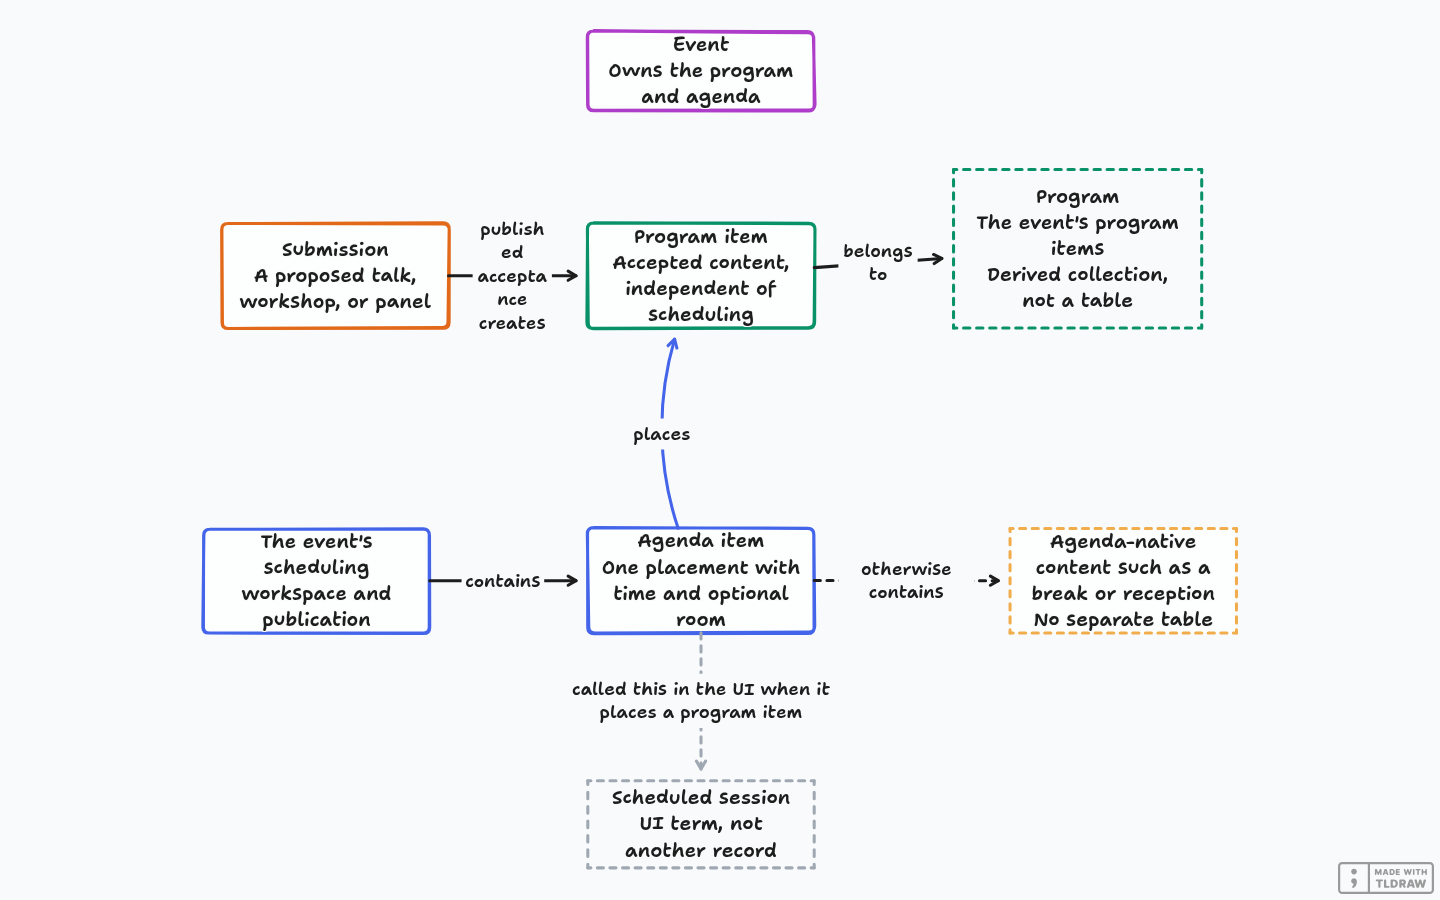
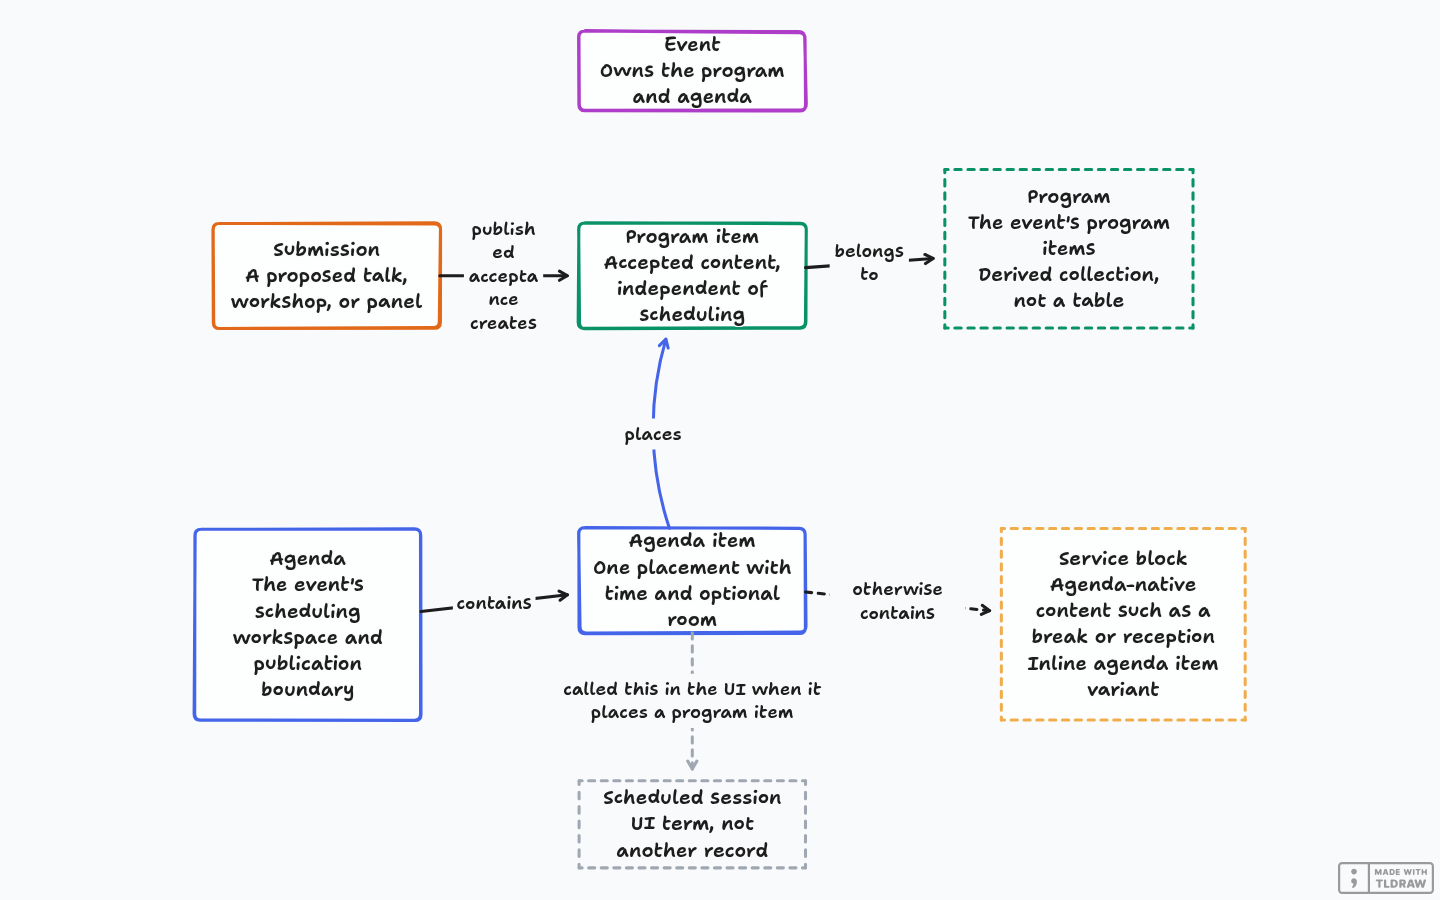
docs: tighten domain checkpoint
Make review-round authorization and the settled task and agenda invariants explicit before the checkpoint is used for implementation.

diff --git a/CONTEXT.md b/CONTEXT.md
@@ -39,7 +39,7 @@ An event-owned set of fields and validation rules used by a CFP or onboarding ta
 
 **Form response**:
 One set of answers to a form definition, belonging either to a submission or to one revision of a
-form task assignment.
+task assignment that uses a form.
 
 **Submission**:
 One proposed talk, workshop, or panel sent to an event through a CFP or entered by an organizer.
@@ -50,12 +50,13 @@ The accepted talks, workshops, and panels belonging to an event. The program is 
 the event's program items, not an independent record.
 
 **Program item**:
-An accepted talk, workshop, or panel in an event's program, linked to its submission and independent
-of any agenda placement.
+An accepted talk, workshop, or panel in an event's program. Publishing acceptance creates exactly
+one program item linked to its submission and independent of any agenda placement.
 _Avoid_: Session
 
 **Submission owner**:
-The person accountable for a submission and permitted to edit the proposal.
+The person accountable for a submission and permitted to edit the proposal. Ownership and speaking
+are independent relationships; a public CFP defaults the owner into the speaker list.
 _Avoid_: Submitter
 
 **Abstract**:
@@ -63,8 +64,9 @@ A short description of what a submission proposes to cover.
 _Avoid_: Description, summary
 
 **Submission speaker**:
-A person named as a potential speaker on a submission. The relationship remains the same before
-and after acceptance.
+A person named as a potential speaker on a submission. The relationship may remain unclaimed with
+an invited name and email or link to a verified user, and remains the same before and after
+acceptance.
 _Avoid_: Participant
 
 **Proposed speaker**:
@@ -91,8 +93,8 @@ The revocable relationship permitting one reviewer to evaluate one submission in
 One reviewer's score and optional comment for an assigned submission.
 
 **Decision**:
-The current internal or published outcome for one submission. Internal accept and decline queues
-remain distinct from published acceptance and decline.
+The current outcome for one submission: pending, internally queued for acceptance or decline, or
+published as accepted or declined.
 
 **Track**:
 A topic grouping for submissions and scheduled sessions within an event.
@@ -140,7 +142,8 @@ its first assignment.
 
 **Task assignment**:
 One required or optional obligation created from a task definition. Completion is derived from
-current-revision evidence rather than a stored completed flag.
+current-revision manual confirmation, profile data, form response, stored file, waiver, or organizer
+override evidence rather than a stored completed flag.
 
 **Event-speaker task**:
 A task one user completes once for one event.
@@ -153,7 +156,7 @@ A task one submission speaker completes specifically for one program item.
 
 **Stored file**:
 File identity and immutable R2 metadata. A stored file gains domain meaning through a speaker-profile,
-task, or form-answer attachment.
+task-assignment, or form-response attachment.
 
 **Communication**:
 One rendered message intended for one user or invitation. Delivery retries are append-only attempts

diff --git a/docs/authentication-and-authorization.md b/docs/authentication-and-authorization.md
@@ -79,7 +79,7 @@ The initial guard vocabulary is:
 - `authenticated`: any verified user.
 - `eventOwner`: the event's owner.
 - `eventOrganizer`: the owner or an organizer of the event.
-- `assignedReviewer`: a reviewer assigned to the requested submission.
+- `assignedReviewer`: a reviewer assigned to the requested submission in the requested review round.
 - `submissionOwner`: the user accountable for the requested submission.
 - `submissionSpeaker`: a user linked as a speaker to the requested submission.
 
@@ -93,7 +93,8 @@ Frontend route protection improves navigation but is not an authorization bounda
 - An event has exactly one owner.
 - The owner controls organizer access, ownership transfer, and event deletion.
 - Organizers control event operations and reviewer access.
-- Roles are additive. A user may organize, review, and speak within one event.
+- Organizer and reviewer roles are additive. Speaking remains a separate submission-speaker
+  relationship, so a user may organize, review, and speak within one event.
 - A reviewer cannot be assigned to a submission they own or speak on.
 
 ### Submissions and reviews
